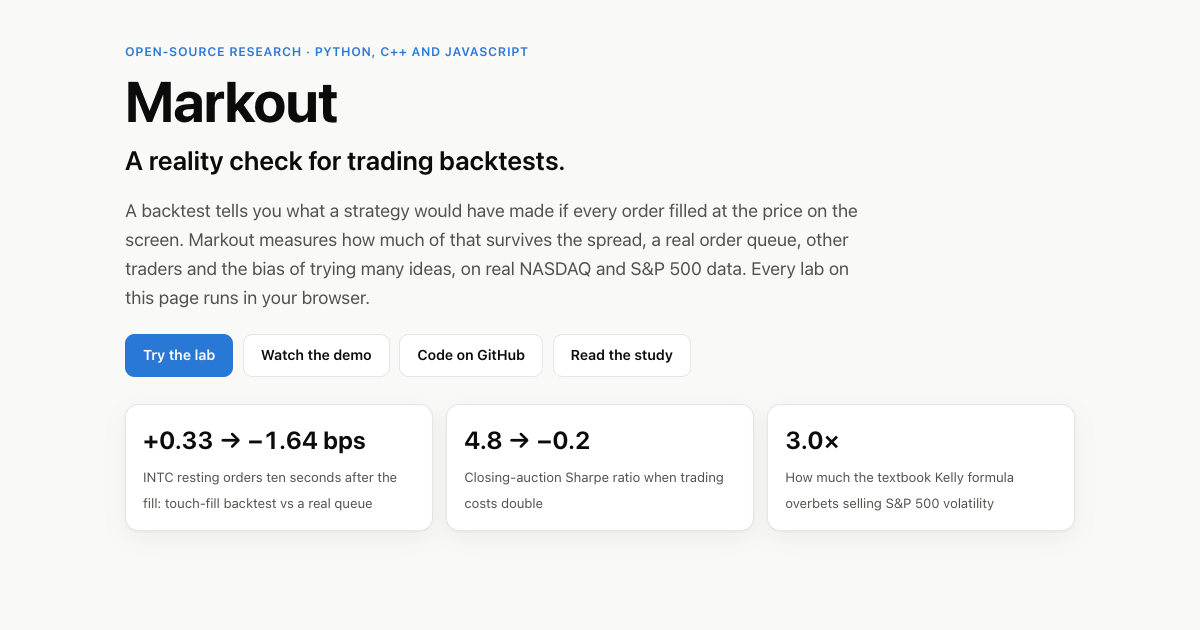
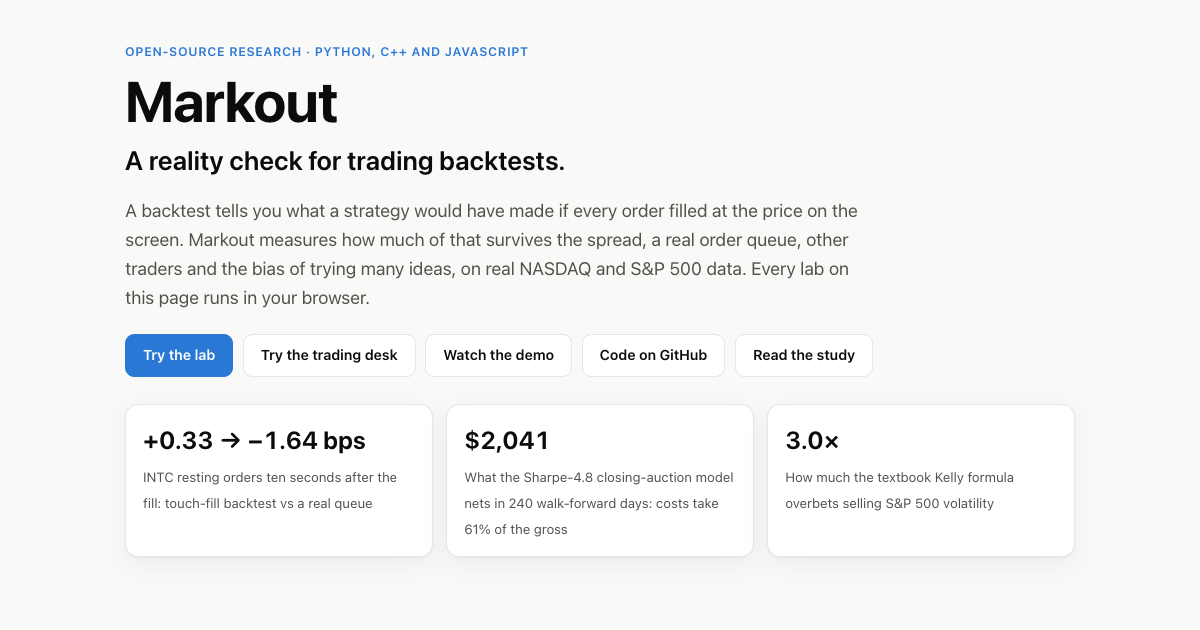
Keep every auction number in its own period, and describe the desk plainly
The headline auction claims mixed the 240 walk-forward days with the 60-day
holdout. Each number now carries its period: over the walk-forward days the
model has a Sharpe of 4.8 but nets only $2,041, because costs take 61% of the
gross (-0.2 at twice the costs); the holdout, opened once, scored 4.7 ($1,101).
The middle tile of the hero and the link-preview card now show the $2,041.

- the desk is described as a demo that runs in the browser on a fictional
  8-market scenario, never as live
- the README says the desk was built for SIG's Predictions Cup
- the README notes that the 32 auction trials were logged from a commit that
  predates the public history, so their SHAs do not resolve on GitHub
- record_demo.py --card redoes only the preview image, and its server no
  longer resets Chrome's parallel connections

diff --git a/docs/index.html b/docs/index.html
@@ -40,7 +40,7 @@
     <a class="btn" href="https://github.com/tanaymihani/markout">Code on GitHub</a>
     <a class="btn" href="https://github.com/tanaymihani/markout/blob/main/reports/02_microstructure.md">Read the study</a>
   </div>
-  <div class="tiles"><div class="tile"><b>+0.33 → &minus;1.64 bps</b><span>INTC resting orders ten seconds after the fill: touch-fill backtest vs a real queue</span></div><div class="tile"><b>4.8 → &minus;0.2</b><span>Closing-auction Sharpe ratio when trading costs double</span></div><div class="tile"><b>3.0×</b><span>How much the textbook Kelly formula overbets selling S&amp;P 500 volatility</span></div></div>
+  <div class="tiles"><div class="tile"><b>+0.33 → &minus;1.64 bps</b><span>INTC resting orders ten seconds after the fill: touch-fill backtest vs a real queue</span></div><div class="tile"><b>$2,041</b><span>What the Sharpe-4.8 closing-auction model nets in 240 walk-forward days: costs take 61% of the gross</span></div><div class="tile"><b>3.0×</b><span>How much the textbook Kelly formula overbets selling S&amp;P 500 volatility</span></div></div>
 </header>
 
 <main>
@@ -182,9 +182,9 @@
   <h2>The Predictions Cup desk</h2>
   <p>SIG's student prediction-market contest allows bots, so I built one that runs on a laptop. It pools free
   reference prices (Polymarket, Kalshi, option-implied probabilities, earnings history) with the contest's own price,
-  proposes trades sized by Kelly and by what the order book can fill, and never trades without a click. The live
-  version runs that same Python code in your browser, on fictional markets and paper money.</p>
-  <div class="cta"><a class="btn primary" href="desk/">Try the live desk</a></div>
+  proposes trades sized by Kelly and by what the order book can fill, and never trades without a click. A demo
+  runs that same Python code in your browser, on a fictional 8-market scenario with paper money.</p>
+  <div class="cta"><a class="btn primary" href="desk/">Open the desk in your browser</a></div>
   <a class="shot" href="desk/"><img src="demo/desk.png" alt="The approval desk showing proposed trades, their
   probabilities, edges and stakes"></a>
   <p class="small"><a href="demo/desk.html">Open a read-only snapshot</a> ·
@@ -195,7 +195,7 @@
 
 <section id="results">
   <h2>Results across the project</h2>
-  <div class="grid"><div class="card"><h3><a href="https://github.com/tanaymihani/markout/blob/main/reports/01_auction.md">Closing auction</a></h3><p>LightGBM beats a per-stock baseline on every walk-forward day. Traded net of costs it earns an annualized Sharpe of <span class=num>4.8</span>, and <span class=num>4.7</span> on a holdout scored once. At twice the assumed costs it drops to <span class=num>-0.2</span>: the edge is about one spread wide.</p></div><div class="card"><h3><a href="https://github.com/tanaymihani/markout/blob/main/reports/02_microstructure.md">Realistic fills</a></h3><p>Resting orders in INTC look profitable if any trade at your price fills you (<span class=num>+0.33</span> bps ten seconds later). Tracking queue position order by order turns that into <span class=num>-1.64</span> bps: the fills you actually get are the ones the market was about to run over.</p></div><div class="card"><h3><a href="https://github.com/tanaymihani/markout/blob/main/reports/03_arena.md">Competition</a></h3><p>A lone market maker quotes a <span class=num>124</span>-tick spread; one identical rival brings it to <span class=num>13.8</span>, next to the zero-profit level of <span class=num>13.0</span>. Competition removes the rent, not the cost of informed traders.</p></div><div class="card"><h3><a href="https://github.com/tanaymihani/markout/blob/main/reports/06_vol_premium.md">Volatility premium</a></h3><p>VIX sat above the volatility that followed <span class=num>86%</span> of the time since 1990. But the mean/variance Kelly formula asks for <span class=num>3.0x</span> the growth-optimal size, and every Kelly fraction fitted on 1993–2007 was wiped out after 2008.</p></div><div class="card"><h3><a href="https://github.com/tanaymihani/markout/blob/main/reports/02_microstructure.md">C++ core</a></h3><p>The order-book replay was ported to C++17: <span class=num>26–47x</span> faster than Python, with identical fills on every test.</p></div></div>
+  <div class="grid"><div class="card"><h3><a href="https://github.com/tanaymihani/markout/blob/main/reports/01_auction.md">Closing auction</a></h3><p>LightGBM beats a per-stock baseline on every walk-forward day. Over 240 walk-forward days, traded net of costs, it has an annualized Sharpe of <span class=num>4.8</span> but nets only <span class=num>$2,041</span>, and at twice the assumed costs the Sharpe is <span class=num>-0.2</span>. A 60-day holdout, scored once, gave <span class=num>4.7</span>.</p></div><div class="card"><h3><a href="https://github.com/tanaymihani/markout/blob/main/reports/02_microstructure.md">Realistic fills</a></h3><p>Resting orders in INTC look profitable if any trade at your price fills you (<span class=num>+0.33</span> bps ten seconds later). Tracking queue position order by order turns that into <span class=num>-1.64</span> bps: the fills you actually get are the ones the market was about to run over.</p></div><div class="card"><h3><a href="https://github.com/tanaymihani/markout/blob/main/reports/03_arena.md">Competition</a></h3><p>A lone market maker quotes a <span class=num>124</span>-tick spread; one identical rival brings it to <span class=num>13.8</span>, next to the zero-profit level of <span class=num>13.0</span>. Competition removes the rent, not the cost of informed traders.</p></div><div class="card"><h3><a href="https://github.com/tanaymihani/markout/blob/main/reports/06_vol_premium.md">Volatility premium</a></h3><p>VIX sat above the volatility that followed <span class=num>86%</span> of the time since 1990. But the mean/variance Kelly formula asks for <span class=num>3.0x</span> the growth-optimal size, and every Kelly fraction fitted on 1993–2007 was wiped out after 2008.</p></div><div class="card"><h3><a href="https://github.com/tanaymihani/markout/blob/main/reports/02_microstructure.md">C++ core</a></h3><p>The order-book replay was ported to C++17: <span class=num>26–47x</span> faster than Python, with identical fills on every test.</p></div></div>
   <p class="small"><a href="https://github.com/tanaymihani/markout#results">Every result, with figures, in the README</a></p>
 </section>
 
@@ -209,7 +209,7 @@
     <div><h3>How I built it</h3><p>The research is in Python, with walk-forward validation, a log of every variant
     tried, deflated Sharpe ratios and a holdout that can only be opened once. The order-book replay is written in
     C++17 with pybind11 bindings and is bit-identical to the Python reference. This site is plain HTML, CSS and
-    JavaScript; the browser versions of the simulations are tested against the Python code. The desk also runs live in
+    JavaScript; the browser versions of the simulations are tested against the Python code. The desk also runs in
     your browser: Pyodide (Python compiled to WebAssembly) runs its own Python code in the tab, with a private
     paper-trading sandbox for every visitor, and a Docker version serves the same sandboxes from one server. CI checks
     types, coverage, a real browser and the container on every push.</p></div>

diff --git a/src/markout/site_template.html b/src/markout/site_template.html
@@ -182,9 +182,9 @@
   <h2>The Predictions Cup desk</h2>
   <p>SIG's student prediction-market contest allows bots, so I built one that runs on a laptop. It pools free
   reference prices (Polymarket, Kalshi, option-implied probabilities, earnings history) with the contest's own price,
-  proposes trades sized by Kelly and by what the order book can fill, and never trades without a click. The live
-  version runs that same Python code in your browser, on fictional markets and paper money.</p>
-  <div class="cta"><a class="btn primary" href="desk/">Try the live desk</a></div>
+  proposes trades sized by Kelly and by what the order book can fill, and never trades without a click. A demo
+  runs that same Python code in your browser, on a fictional 8-market scenario with paper money.</p>
+  <div class="cta"><a class="btn primary" href="desk/">Open the desk in your browser</a></div>
   <a class="shot" href="desk/"><img src="demo/desk.png" alt="The approval desk showing proposed trades, their
   probabilities, edges and stakes"></a>
   <p class="small"><a href="demo/desk.html">Open a read-only snapshot</a> ·
@@ -209,7 +209,7 @@
     <div><h3>How I built it</h3><p>The research is in Python, with walk-forward validation, a log of every variant
     tried, deflated Sharpe ratios and a holdout that can only be opened once. The order-book replay is written in
     C++17 with pybind11 bindings and is bit-identical to the Python reference. This site is plain HTML, CSS and
-    JavaScript; the browser versions of the simulations are tested against the Python code. The desk also runs live in
+    JavaScript; the browser versions of the simulations are tested against the Python code. The desk also runs in
     your browser: Pyodide (Python compiled to WebAssembly) runs its own Python code in the tab, with a private
     paper-trading sandbox for every visitor, and a Docker version serves the same sandboxes from one server. CI checks
     types, coverage, a real browser and the container on every push.</p></div>

diff --git a/docs/desk/index.html b/docs/desk/index.html
@@ -31,7 +31,7 @@ a{color:var(--accent)}details summary{cursor:pointer;color:var(--ink2);font-size
 <div class="row"><span class="chip" id="mode"></span>
 <button id="modeBtn" title="Switch sizing mode">Switch mode</button>
 <button id="refreshBtn">Refresh now</button>
-<button id="killBtn" class="danger"></button> <span class="chip" title="Move the simulated clock">time</span><button data-time="2">+2 h</button><button data-time="24">+1 day</button><button data-time="reset" title="Start over with a fresh sandbox">Reset</button></div></header><div style="padding:8px 20px;font-size:13px;background:var(--warn-bg);color:var(--warn-ink)"><b>Live demo, running in your browser.</b> Fictional markets and paper money. The desk's own Python code runs in this tab, so nothing you do is sent anywhere. Move the clock with <b>+2 h</b> / <b>+1 day</b>: prices drift, markets resolve and the journal scores your calls. <a href="../">Back to Markout</a>. <span id="sbx"></span></div>
+<button id="killBtn" class="danger"></button> <span class="chip" title="Move the simulated clock">time</span><button data-time="2">+2 h</button><button data-time="24">+1 day</button><button data-time="reset" title="Start over with a fresh sandbox">Reset</button></div></header><div style="padding:8px 20px;font-size:13px;background:var(--warn-bg);color:var(--warn-ink)"><b>A demo that runs in your browser,</b> on a fictional 8-market scenario with paper money. The desk's own Python runs in this tab, so nothing you do is sent anywhere. Move the clock with <b>+2 h</b> / <b>+1 day</b>: prices drift, markets resolve and the journal scores your calls. <a href="../">Back to Markout</a>. <span id="sbx"></span></div>
 <main><section><h2>Proposals awaiting your decision</h2><div id="pending"></div>
 <h2 style="margin-top:22px">All contest markets</h2><div class="card" id="markets"><span class="muted">loading…</span></div>
 <div id="searchbox"></div></section>

diff --git a/src/markout/readme.py b/src/markout/readme.py
@@ -145,8 +145,8 @@ def desk_section() -> list[str]:
         "",
         (
             "SIG runs a free prediction-market contest for students (Oct 1 to Nov 4, 2026), and its rules allow "
-            "bots as long as each person keeps one account and stays within the platform's limits. The desk is my "
-            "bot for it. It runs on a laptop, uses only free public data, and never trades without a click."
+            "bots as long as each person keeps one account and stays within the platform's limits. I built this "
+            "desk for it. It runs on a laptop, uses only free public data, and never trades without a click."
         ),
         "",
         (
@@ -180,8 +180,9 @@ def desk_section() -> list[str]:
             "look-alikes (the other team, another stat line, a different threshold); those cases are now tests."
         ),
         "",
-        f"**[Try the live desk]({DESK_URL}).** It runs in your browser: Pyodide (Python compiled to WebAssembly) "
-        "executes the desk's own Python in the tab, so every visitor gets a private paper-trading sandbox, with its "
+        f"**[Open the desk in your browser]({DESK_URL}).** It runs on a fictional 8-market scenario: Pyodide "
+        "(Python compiled to WebAssembly) executes the desk's own Python in the tab, so every visitor gets a private "
+        "paper-trading sandbox, with its "
         "own exchange, journal and clock, and nothing is sent anywhere. `python -m markout.cup public` (or the Docker "
         "image) serves the same sandboxes from one server, with header sessions, eviction and expiry, rate limits and "
         "a strict Content-Security-Policy; [ARCHITECTURE.md](ARCHITECTURE.md) has the details and "
@@ -201,11 +202,13 @@ def brief() -> list[str]:
         share = a["diebold_mariano"]["share_days_better"]
         days = "every out-of-sample day" if share == 1 else f"{100 * share:.0f}% of out-of-sample days"
         out.append(
-            f"**Closing auction.** A LightGBM model beats a per-stock baseline on {days}. Traded net of costs, "
-            f"it earns an annualized Sharpe of {s['sharpe_annualized']:.1f}, and "
-            f"{h.get('sharpe_annualized', float('nan')):.1f} on a holdout I opened once. At twice the assumed "
-            f"costs it drops to {two:.1f}, and at a size the order book can absorb it makes "
-            f"${s['total_pnl_usd']:,.0f} in {s['days']} days: real, but thin."
+            f"**Closing auction.** A LightGBM model beats a per-stock baseline on {days}. Over {s['days']} "
+            f"walk-forward days, traded net of costs at a size the order book can absorb, it has an annualized "
+            f"Sharpe of {s['sharpe_annualized']:.1f} but nets only ${s['total_pnl_usd']:,.0f}, because costs take "
+            f"{s['cost_usd'] / s['gross_usd']:.0%} of the gross; at twice the assumed costs the Sharpe is {two:.1f}. "
+            f"On a {h.get('days', 0)}-day holdout I opened once, the frozen model scored "
+            f"{h.get('sharpe_annualized', float('nan')):.1f} (${h.get('total_pnl_usd', float('nan')):,.0f}): "
+            "real, but thin."
         )
     m = results.load("microstructure")
     if m:
@@ -280,7 +283,7 @@ def build() -> str:
             "market data where I could get it."
         ),
         "",
-        "**Live demo:** [tanaymihani.github.io/markout](https://tanaymihani.github.io/markout/) has four "
+        "**Live labs:** [tanaymihani.github.io/markout](https://tanaymihani.github.io/markout/) has four "
         f"interactive labs, a market-making game and the [trading desk]({DESK_URL}), all running in the browser.",
         "",
         (
@@ -345,8 +348,9 @@ def build() -> str:
             "`src/markout/auction/cv.py` explains why."
         ),
         (
-            "- Every variant I tried is logged with its git commit and config, including the losers, so the Deflated "
-            "Sharpe and PBO count all of the searching."
+            "- Every variant I tried is logged with its config, daily PnL and git commit, including the losers, so "
+            "the Deflated Sharpe and PBO count all of the searching. (The 32 auction trials were logged from a working "
+            "copy whose commit predates this repository's public history, so their SHAs don't resolve on GitHub.)"
         ),
         "- The auction holdout sits behind a guard that refuses a second look"
         + (f" (it has been opened {times} time{'s' if times != 1 else ''})." if times else "."),

diff --git a/src/markout/site.py b/src/markout/site.py
@@ -203,11 +203,12 @@ def findings() -> list[tuple[str, str, str]]:
                 "Closing auction",
                 "01_auction",
                 (
-                    f"LightGBM beats a per-stock baseline on every walk-forward day. Traded net of costs it earns an "
-                    f"annualized Sharpe of <span class=num>{s['sharpe_annualized']:.1f}</span>, and "
-                    f"<span class=num>{h.get('sharpe_annualized', float('nan')):.1f}</span> on a holdout scored once. "
-                    f"At twice the assumed costs it drops to <span class=num>{two:.1f}</span>: the edge is about one "
-                    "spread wide."
+                    f"LightGBM beats a per-stock baseline on every walk-forward day. Over {s['days']} walk-forward "
+                    f"days, traded net of costs, it has an annualized Sharpe of "
+                    f"<span class=num>{s['sharpe_annualized']:.1f}</span> but nets only "
+                    f"<span class=num>${s['total_pnl_usd']:,.0f}</span>, and at twice the assumed costs the Sharpe is "
+                    f"<span class=num>{two:.1f}</span>. A {h.get('days', 0)}-day holdout, scored once, gave "
+                    f"<span class=num>{h.get('sharpe_annualized', float('nan')):.1f}</span>."
                 ),
             )
         )
@@ -282,10 +283,15 @@ def hero_tiles() -> str:
                 "INTC resting orders ten seconds after the fill: touch-fill backtest vs a real queue",
             )
         )
-    if a:
-        one = a["selected"]["summary"]["sharpe_annualized"]
-        two = next(r for r in a["robustness"]["cost_rows"] if r["cost_mult"] == 2.0)["adapted"]["sharpe_annualized"]
-        tiles.append((f"{one:.1f} → {two:.1f}", "Closing-auction Sharpe ratio when trading costs double"))
+    if a:  # one period throughout: the 240 walk-forward days
+        s = a["selected"]["summary"]
+        tiles.append(
+            (
+                f"${s['total_pnl_usd']:,.0f}",
+                f"What the Sharpe-{s['sharpe_annualized']:.1f} closing-auction model nets in {s['days']} walk-forward "
+                f"days: costs take {s['cost_usd'] / s['gross_usd']:.0%} of the gross",
+            )
+        )
     if v:
         kf = v["kelly_full"]
         tiles.append(
@@ -342,7 +348,7 @@ def render() -> str:
 
 DESK_NOTICE = (
     '<div style="padding:8px 20px;font-size:13px;background:var(--warn-bg);color:var(--warn-ink)">'
-    "<b>Live demo, running in your browser.</b> Fictional markets and paper money. The desk's own Python code runs "
+    "<b>A demo that runs in your browser,</b> on a fictional 8-market scenario with paper money. The desk's own Python runs "
     "in this tab, so nothing you do is sent anywhere. Move the clock with <b>+2 h</b> / <b>+1 day</b>: prices drift, "
     'markets resolve and the journal scores your calls. <a href="../">Back to Markout</a>. <span id="sbx"></span></div>'
 )

diff --git a/scripts/record_demo.py b/scripts/record_demo.py
@@ -1,4 +1,4 @@
-"""Record the site's demo video: `python scripts/record_demo.py`.
+"""Record the site's demo video: `python scripts/record_demo.py` (`--card` redoes only the preview image).
 
 Serves docs/ locally, drives the page in Chrome with Playwright (a scripted walkthrough of
 every lab), and writes docs/media/markout-demo.mp4, a poster frame, and a short GIF for the
@@ -42,7 +42,10 @@ def serve() -> tuple[socketserver.TCPServer, str]:
         def log_message(self, *args):  # keep the console clean
             pass
 
-    httpd = socketserver.TCPServer(("127.0.0.1", 0), functools.partial(Quiet, directory=str(DOCS)))
+    class Server(http.server.ThreadingHTTPServer):
+        request_queue_size = 128  # the default backlog of 5 resets some of Chrome's parallel connections
+
+    httpd = Server(("127.0.0.1", 0), functools.partial(Quiet, directory=str(DOCS)))
     threading.Thread(target=httpd.serve_forever, daemon=True).start()
     return httpd, f"http://127.0.0.1:{httpd.server_address[1]}/index.html"
 
@@ -144,6 +147,18 @@ def card(browser, url: str) -> Path:
     return out
 
 
+def card_only() -> None:
+    httpd, url = serve()
+    with sync_playwright() as p:
+        try:
+            browser = p.chromium.launch(channel="chrome", headless=True)
+        except Exception:  # noqa: BLE001 - fall back to Playwright's Chromium
+            browser = p.chromium.launch(headless=True)
+        print(f"wrote {card(browser, url).relative_to(ROOT)}")
+        browser.close()
+    httpd.shutdown()
+
+
 def main() -> None:
     MEDIA.mkdir(parents=True, exist_ok=True)
     ffmpeg = imageio_ffmpeg.get_ffmpeg_exe()
@@ -201,4 +216,6 @@ def main() -> None:
 
 
 if __name__ == "__main__":
-    main()
+    import sys
+
+    card_only() if "--card" in sys.argv[1:] else main()

diff --git a/README.md b/README.md
@@ -4,7 +4,7 @@
 
 Does a short-horizon trading edge survive the spread, realistic fills, competing traders, and the bias that comes from trying many strategies? This repo is my attempt to find out, step by step, on real market data where I could get it.
 
-**Live demo:** [tanaymihani.github.io/markout](https://tanaymihani.github.io/markout/) has four interactive labs, a market-making game and the [trading desk](https://tanaymihani.github.io/markout/desk/), all running in the browser.
+**Live labs:** [tanaymihani.github.io/markout](https://tanaymihani.github.io/markout/) has four interactive labs, a market-making game and the [trading desk](https://tanaymihani.github.io/markout/desk/), all running in the browser.
 
 [![The Markout lab: a simulated order waits in the queue while a touch-fill backtest has already counted it as filled](docs/media/markout-demo.gif)](https://tanaymihani.github.io/markout/)
 
@@ -12,7 +12,7 @@ The name comes from the *markout*, the price move right after a trade, which mar
 
 ## In brief
 
-- **Closing auction.** A LightGBM model beats a per-stock baseline on every out-of-sample day. Traded net of costs, it earns an annualized Sharpe of 4.8, and 4.7 on a holdout I opened once. At twice the assumed costs it drops to -0.2, and at a size the order book can absorb it makes $2,041 in 240 days: real, but thin.
+- **Closing auction.** A LightGBM model beats a per-stock baseline on every out-of-sample day. Over 240 walk-forward days, traded net of costs at a size the order book can absorb, it has an annualized Sharpe of 4.8 but nets only $2,041, because costs take 61% of the gross; at twice the assumed costs the Sharpe is -0.2. On a 60-day holdout I opened once, the frozen model scored 4.7 ($1,101): real, but thin.
 - **Fills.** Resting orders in INTC look profitable if any trade at your price fills you (+0.33 bps ten seconds later). Simulating queue position order by order turns that into -1.64 bps: the fills you actually get are the ones you didn't want.
 - **Competition.** A lone market maker quotes a 124-tick spread; one identical rival brings it to 13.8, next to the zero-profit 13.0. Competition removes the rent, not the cost of trading against informed flow.
 - **Volatility premium.** VIX sat above the volatility that followed 86% of the time since 1990, but the textbook Kelly formula asks for 3.0x the growth-optimal size, and every Kelly fraction fitted on 1993–2007 was wiped out after 2008. Selling delta-hedged straddles instead of variance cuts the worst month from 79 to 41 per $1 of vega, though at-the-money options carry less of the premium.
@@ -82,7 +82,7 @@ The paragraphs below are copied from the reports.
 
 ## The Predictions Cup desk
 
-SIG runs a free prediction-market contest for students (Oct 1 to Nov 4, 2026), and its rules allow bots as long as each person keeps one account and stays within the platform's limits. The desk is my bot for it. It runs on a laptop, uses only free public data, and never trades without a click.
+SIG runs a free prediction-market contest for students (Oct 1 to Nov 4, 2026), and its rules allow bots as long as each person keeps one account and stays within the platform's limits. I built this desk for it. It runs on a laptop, uses only free public data, and never trades without a click.
 
 - It looks up reference prices for each contest market: real-money prices from Polymarket and Kalshi, option-implied probabilities for stock-price questions, and earnings-beat history. Every suggested match between a contest market and a reference has to be confirmed by hand, because matching is where things quietly go wrong.
 - It pools those references with the contest's own price in log-odds, so it never treats a single reference as the truth.
@@ -93,13 +93,13 @@ SIG runs a free prediction-market contest for students (Oct 1 to Nov 4, 2026), a
 
 The [demo](docs/demo/DEMO.md) runs the whole loop offline on made-up markets (`make demo`); `make desk` starts it on a paper contest at http://127.0.0.1:8765. The [matcher dry run](docs/demo/DRYRUN.md) tests the matching against live Polymarket and Kalshi questions. Its first version mostly suggested look-alikes (the other team, another stat line, a different threshold); those cases are now tests.
 
-**[Try the live desk](https://tanaymihani.github.io/markout/desk/).** It runs in your browser: Pyodide (Python compiled to WebAssembly) executes the desk's own Python in the tab, so every visitor gets a private paper-trading sandbox, with its own exchange, journal and clock, and nothing is sent anywhere. `python -m markout.cup public` (or the Docker image) serves the same sandboxes from one server, with header sessions, eviction and expiry, rate limits and a strict Content-Security-Policy; [ARCHITECTURE.md](ARCHITECTURE.md) has the details and [deploy/README.md](deploy/README.md) the deployment.
+**[Open the desk in your browser](https://tanaymihani.github.io/markout/desk/).** It runs on a fictional 8-market scenario: Pyodide (Python compiled to WebAssembly) executes the desk's own Python in the tab, so every visitor gets a private paper-trading sandbox, with its own exchange, journal and clock, and nothing is sent anywhere. `python -m markout.cup public` (or the Docker image) serves the same sandboxes from one server, with header sessions, eviction and expiry, rate limits and a strict Content-Security-Policy; [ARCHITECTURE.md](ARCHITECTURE.md) has the details and [deploy/README.md](deploy/README.md) the deployment.
 
 ## How I tried to keep it honest
 
 - 410 tests (`make test`). One of them corrupts every future row of the auction data and checks that no feature of the past changes; a deliberately leaky feature fails it, so the test does catch leaks.
 - Walk-forward splits by day, never random rows. Labels never cross a day, so there is nothing to purge; `src/markout/auction/cv.py` explains why.
-- Every variant I tried is logged with its git commit and config, including the losers, so the Deflated Sharpe and PBO count all of the searching.
+- Every variant I tried is logged with its config, daily PnL and git commit, including the losers, so the Deflated Sharpe and PBO count all of the searching. (The 32 auction trials were logged from a working copy whose commit predates this repository's public history, so their SHAs don't resolve on GitHub.)
 - The auction holdout sits behind a guard that refuses a second look (it has been opened 1 time).
 - Replications are checked against known answers: the worked example in the Deflated Sharpe paper, the Glosten–Milgrom spread, Kyle's λ, the value of Kuhn poker, put–call parity and the Greeks.
 - `make report` regenerates every report and figure from fixed seeds, so the numbers in the text are never typed by hand.

diff --git a/CHANGELOG.md b/CHANGELOG.md
@@ -8,7 +8,7 @@ All notable changes to this project are listed here. Versions follow
 
 ### Added
 
-- The desk runs live on the site, in the visitor's browser:
+- The desk runs on the site, in the visitor's browser, on a fictional 8-market scenario:
   [tanaymihani.github.io/markout/desk](https://tanaymihani.github.io/markout/desk/).
   Pyodide (CPython on WebAssembly) runs the desk's own Python in the tab, so every visitor
   gets a private paper-trading sandbox, nothing is sent anywhere, and nothing needs hosting.
